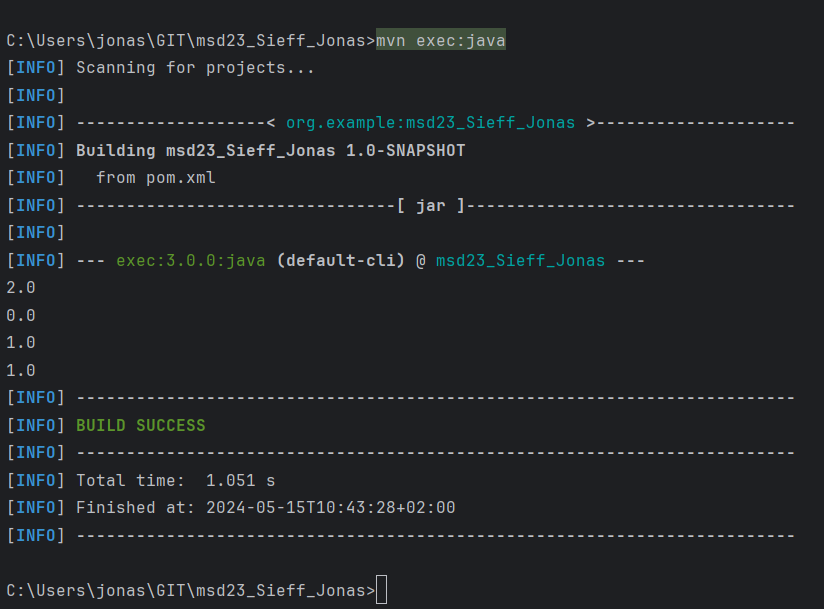
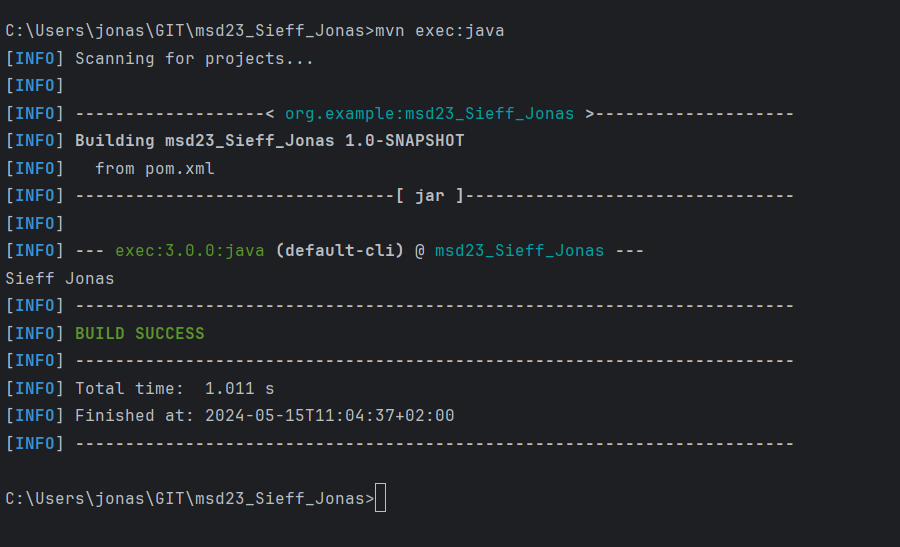
changed the ex3_3 picture

diff --git a/src/main/java/at/fhj/msd/Main.java b/src/main/java/at/fhj/msd/Main.java
@@ -10,11 +10,12 @@ public class Main {
 
         Calculator calc = new Calculator();
 
+       calc.add(1,1);
+       calc.minus(1,1);
+       calc.divide(1,1);
+       calc.multiply(1,1);
 
 
-        System.out.println( calc.add(1,1));
-        System.out.println( calc.minus(1,1));
-        System.out.println( calc.divide(1,1));
-        System.out.println( calc.multiply(1,1));
+        System.out.println("Sieff Jonas");
     }
 }
